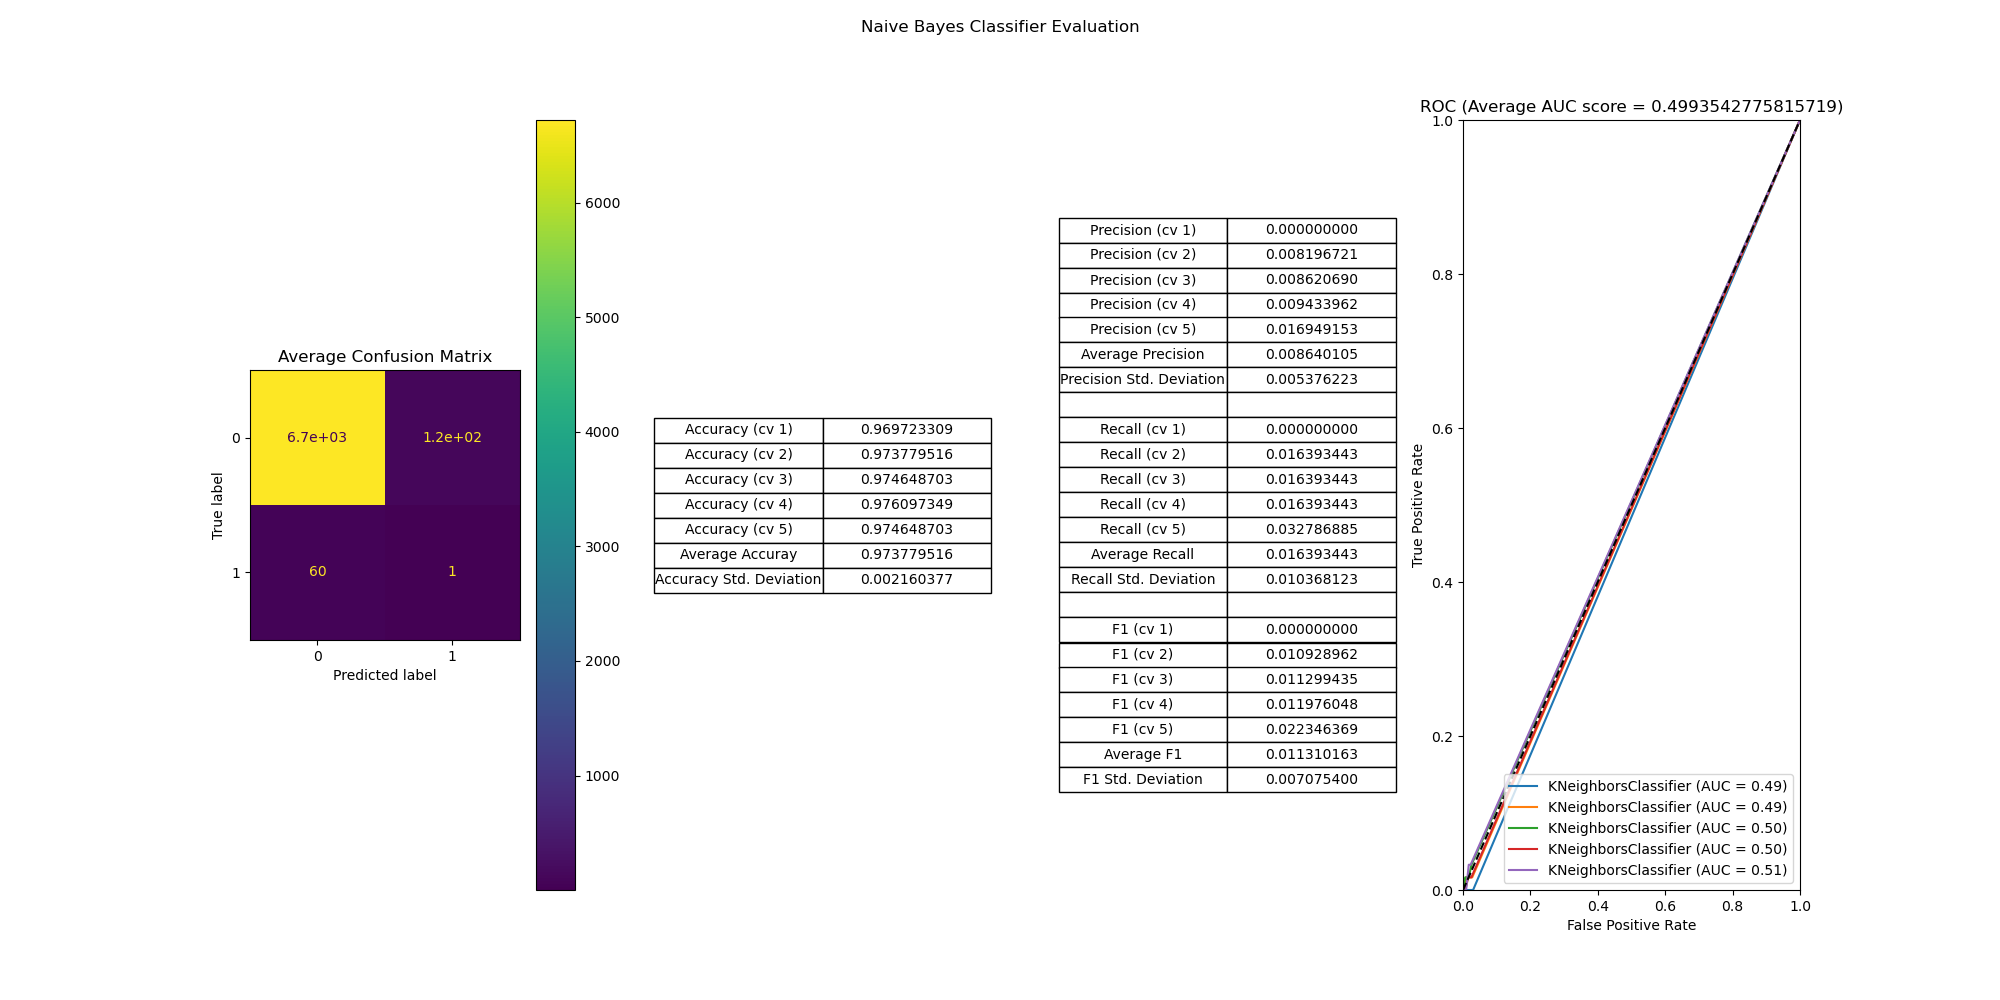
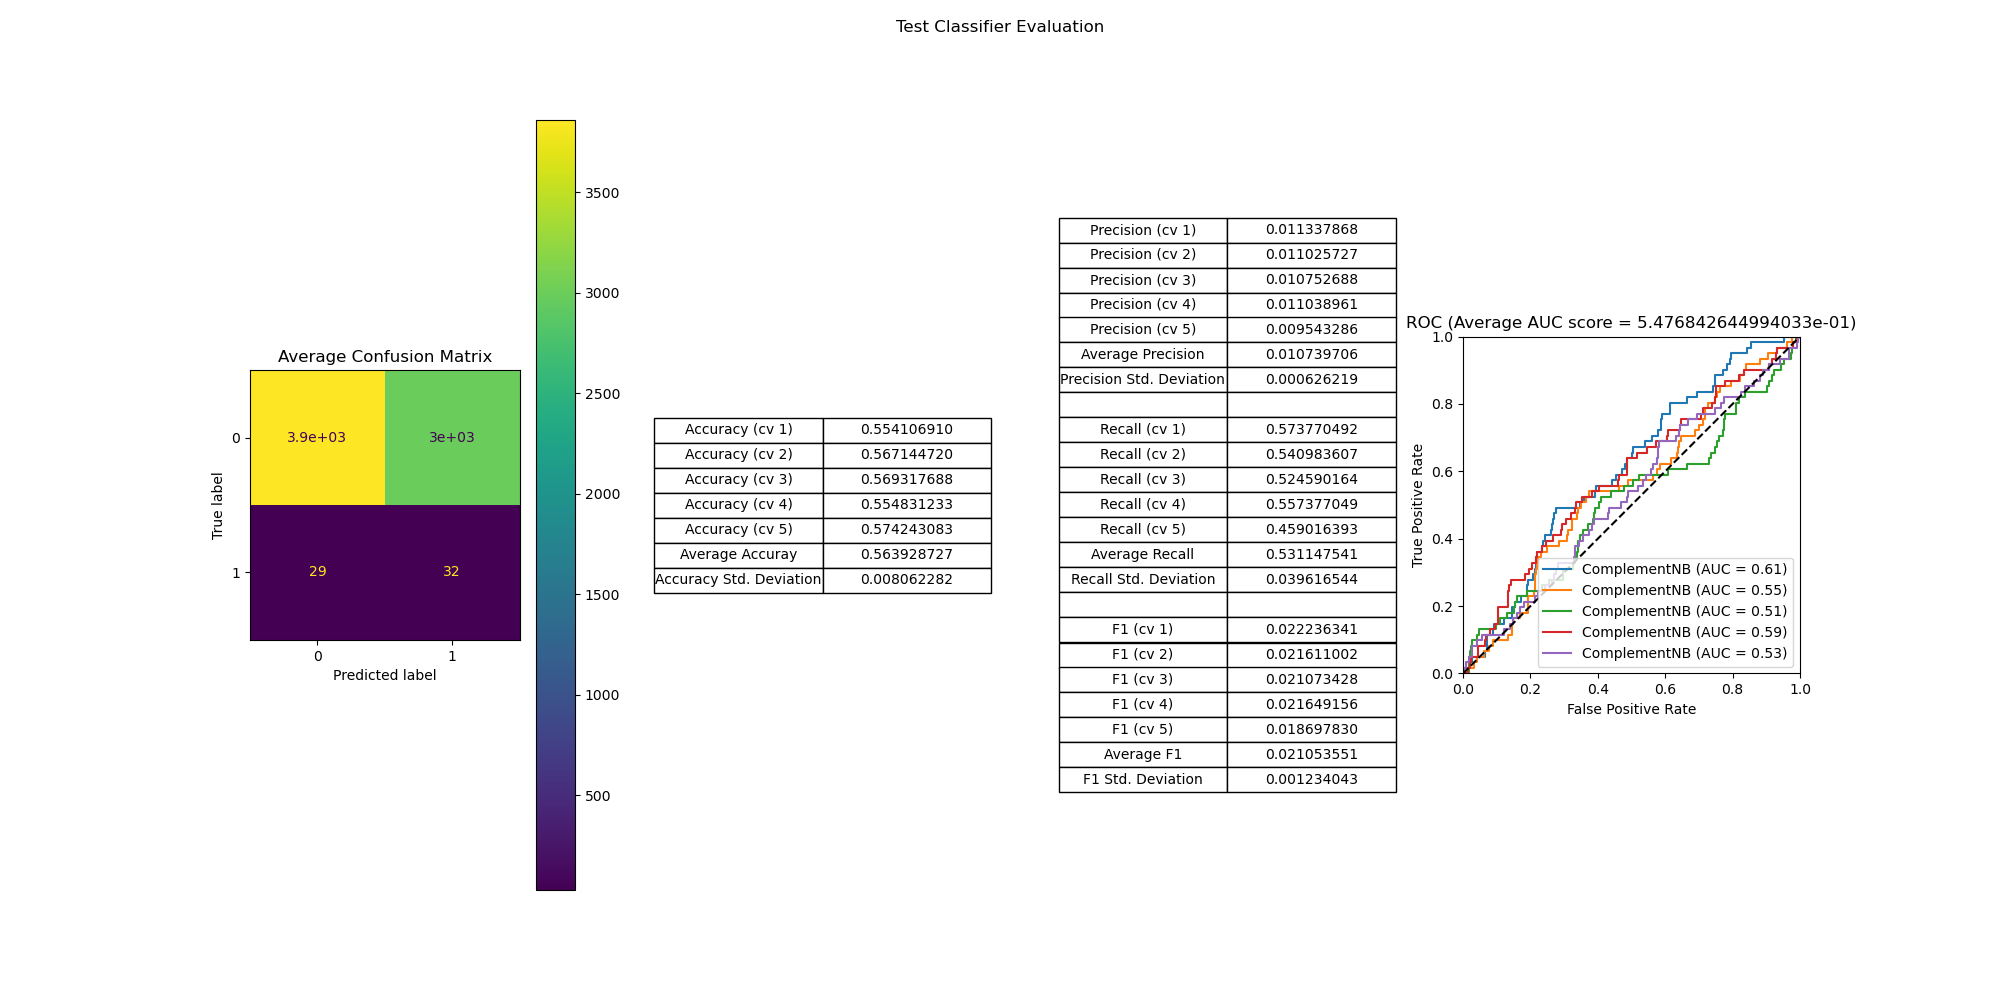
Test

diff --git a/test.py b/test.py
@@ -3,7 +3,7 @@ import pandas as pd
 
 from sklearn.model_selection import train_test_split, cross_val_score, cross_val_predict
 
-from sklearn.naive_bayes import GaussianNB
+from sklearn.naive_bayes import GaussianNB, ComplementNB
 from sklearn.neighbors import KNeighborsClassifier
 
 import utils
@@ -13,11 +13,12 @@ train_input, train_output = utils.loadTrainingData(remove_id=True, remove_capuch
 
 # Create model
 # clf = GaussianNB()
-clf = KNeighborsClassifier(n_neighbors=3) # weights="distance"
+# clf = KNeighborsClassifier(n_neighbors=3) # weights="distance"
+clf = ComplementNB()
 
 # y_pred = cross_val_predict(clf, train_input, train_output['result'], cv=5)
 # print(y_pred)
 
 # Evaluate model
-utils.modelEvaluation(clf, train_input, train_output, balance_classes=True, model_name="Test Classifier", fig_name="test")
+utils.modelEvaluation(clf, train_input, train_output, balance_classes=False, model_name="Test Classifier", fig_name="test")
 
